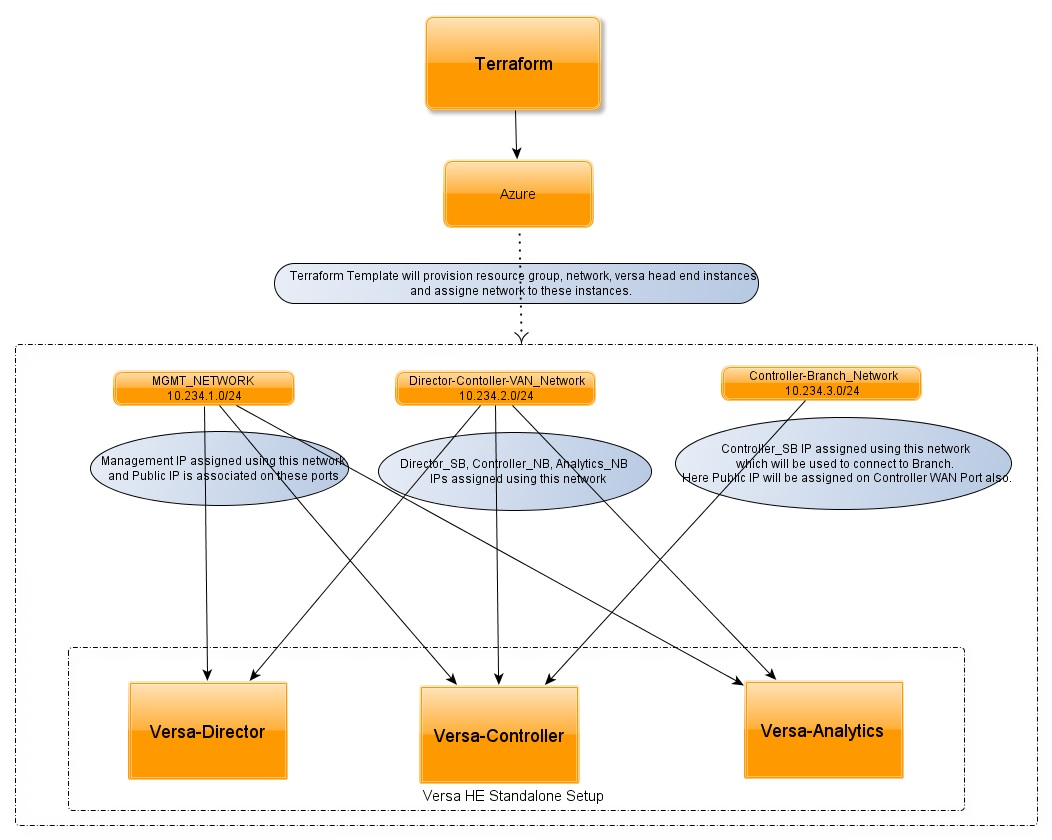
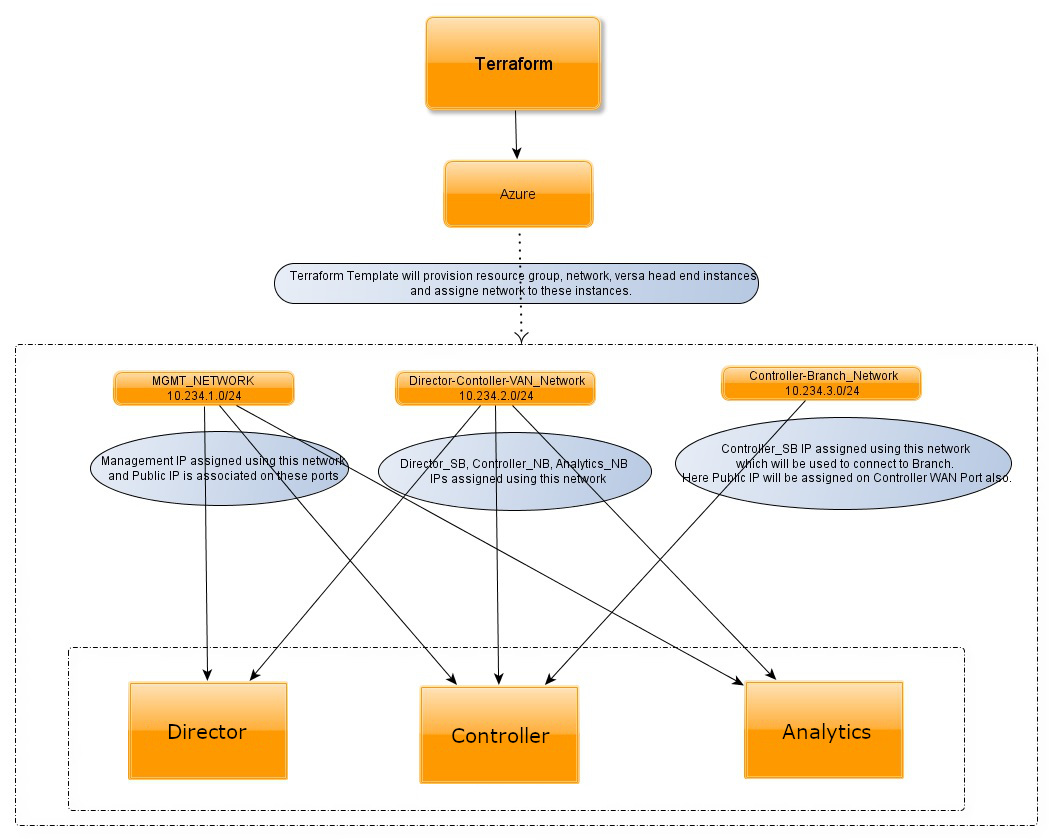
Fixed Riverbed branding in template images

diff --git a/SteelConnect/Azure-EX-Templates/he_ha_multi_region/README.md b/SteelConnect/Azure-EX-Templates/he_ha_multi_region/README.md
@@ -125,7 +125,7 @@ van-2.sh file will have bash script which will be executed as part of cloud-init
 
 As part of this terraform template below topology will be brought up:
 
- ![Topology](https://raw.githubusercontent.com/gleyfer/Riverbed-Community-Toolkit/master/SteelConnect/Azure-EX-Templates/he_ha_multi_region/Topology_Riverbed_HE_HA_Azure.JPG)
+ ![Topology](https://raw.githubusercontent.com/gleyfer/Riverbed-Community-Toolkit/master/SteelConnect/Azure-EX-Templates/he_ha_multi_region/Topology_Riverbed_HE_HA_Azure.png)
 
 ## License
 
